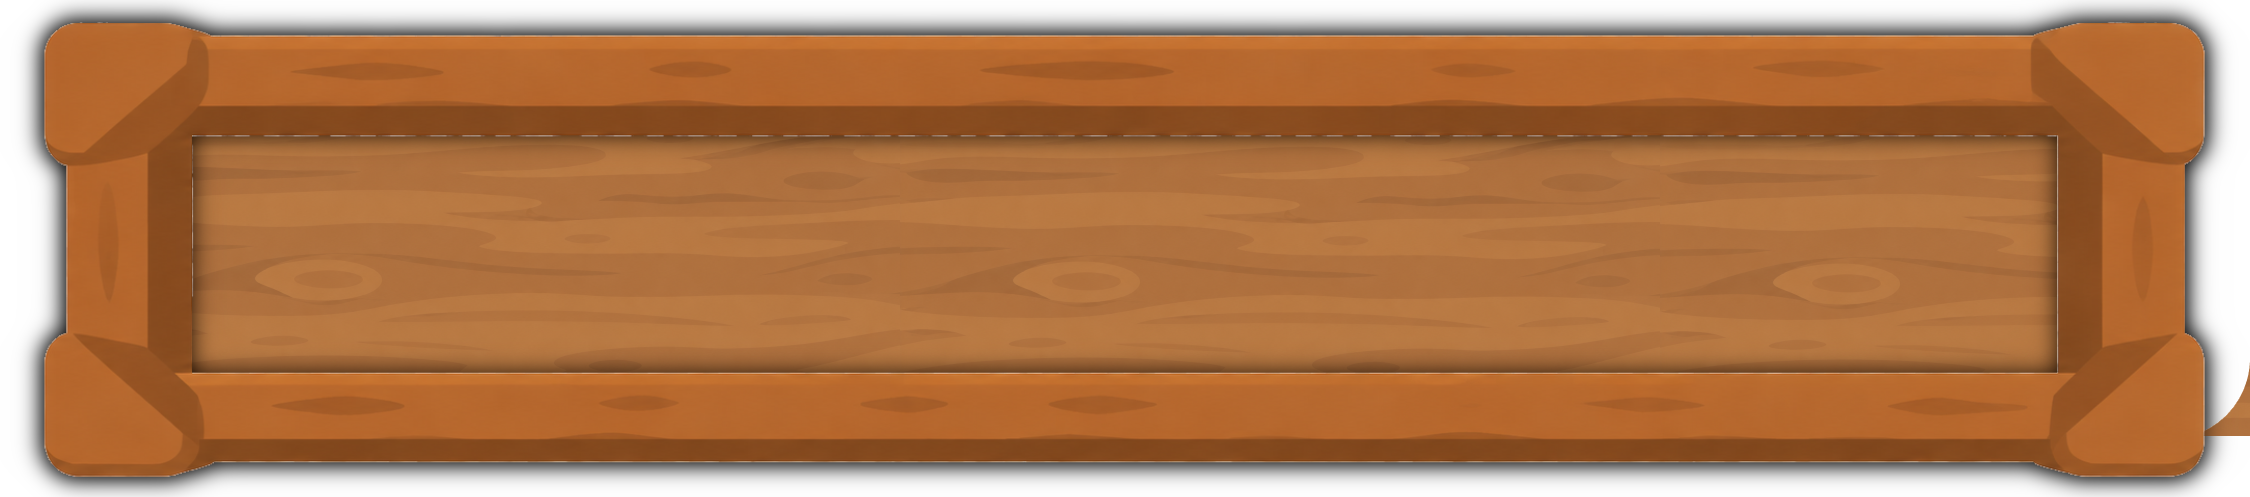
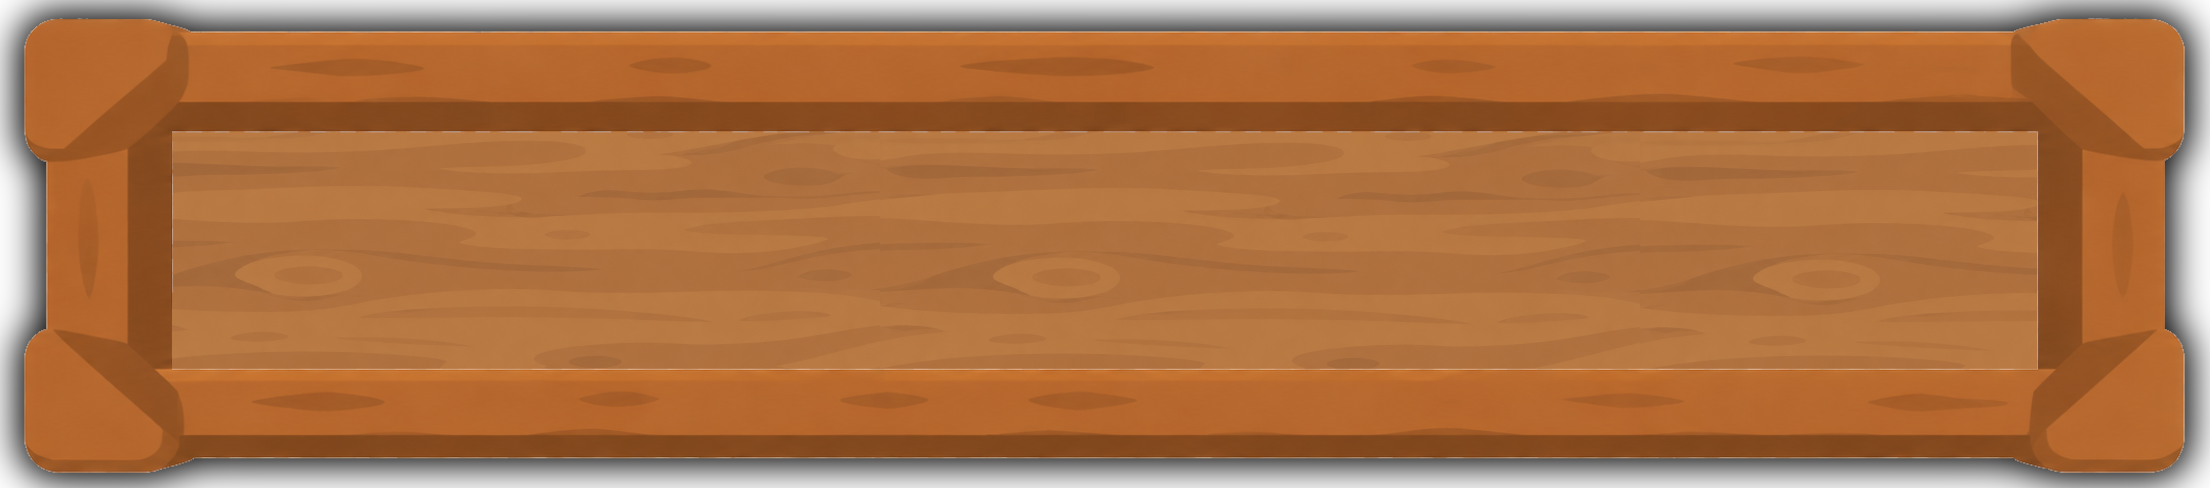
character customization frames. Not aligned well yet

diff --git a/src/app/(setup)/customize.tsx b/src/app/(setup)/customize.tsx
@@ -152,11 +152,18 @@ export default function CustomizeCharacterScreen() {
           >
             {/* Smooth Character Preview & Instruction */}
             <Animated.View
-              style={[
-                styles.previewCard,
-                { opacity: fadeAnim, transform: [{ scale: scaleAnim }] },
-              ]}
+              style={{
+                width: '100%',
+                alignItems: 'center',
+                opacity: fadeAnim,
+                transform: [{ scale: scaleAnim }],
+              }}
             >
+              <ImageBackground
+                source={getWoodframeSource(params.level, '4to3')}
+                resizeMode="stretch"
+                style={styles.previewCard}
+              >
               {/* Instruction Banner with Dynamic Highlight */}
               <View style={styles.instructionBox}>
                 <Text style={styles.instructionText}>
@@ -213,6 +220,7 @@ export default function CustomizeCharacterScreen() {
                   </View>
                 ))}
               </View>
+              </ImageBackground>
             </Animated.View>
 
             {/* Color Selection Grid */}
@@ -294,6 +302,8 @@ const styles = StyleSheet.create({
   },
   selectionContent: {
     flexGrow: 1,
+    width: '100%',
+    alignItems: 'center',
     justifyContent: 'center',
     gap: PADDING,
   },
@@ -330,10 +340,10 @@ const styles = StyleSheet.create({
     letterSpacing: 1,
   },
   previewCard: {
-    backgroundColor: 'rgba(15, 18, 28, 0.72)',
-    borderRadius: CARD_RADIUS,
-    borderWidth: 1,
-    borderColor: 'rgba(255, 255, 255, 0.1)',
+    width: '100%',
+    maxWidth: 440,
+    alignSelf: 'center',
+    aspectRatio: 1.2,
     justifyContent: 'space-between',
     alignItems: 'center',
     padding: PADDING,
@@ -396,6 +406,7 @@ const styles = StyleSheet.create({
     fontWeight: '800',
   },
   colorGrid: {
+    width: '100%',
     flexDirection: 'row',
     flexWrap: 'wrap',
     gap: 12,

diff --git a/src/components/woodframes.ts b/src/components/woodframes.ts
@@ -1,19 +1,22 @@
 const GENERIC_WOODFRAMES = {
-  '4to1': require('../../assets/images/woodframe4to1.png'),
-  // The generic 6:1 frame is currently absent, so use the available generic wood frame.
-  '6to1': require('../../assets/images/woodframe4to1.png'),
+  '4to3': require('../../assets/images/Languagewoodframe4to3.png'),
+  '4to1': require('../../assets/images/Languagewoodframe4to1.png'),
+  '6to1': require('../../assets/images/Languagewoodframe6to1.png'),
 };
 
 const LEVEL_WOODFRAMES: Record<string, Partial<typeof GENERIC_WOODFRAMES>> = {
   reading: {
+    '4to3': require('../../assets/images/Languagewoodframe4to3.png'),
     '4to1': require('../../assets/images/Languagewoodframe4to1.png'),
     '6to1': require('../../assets/images/Languagewoodframe6to1.png'),
   },
   research: {
+    '4to3': require('../../assets/images/Sciencewoodframe4to3.png'),
     '4to1': require('../../assets/images/Sciencewoodframe4to1.png'),
     '6to1': require('../../assets/images/Sciencewoodframe6to1.png'),
   },
   collections: {
+    '4to3': require('../../assets/images/Historywoodframe4to3.png'),
     '4to1': require('../../assets/images/Historywoodframe4to1.png'),
     '6to1': require('../../assets/images/Historywoodframe6to1.png'),
   },
